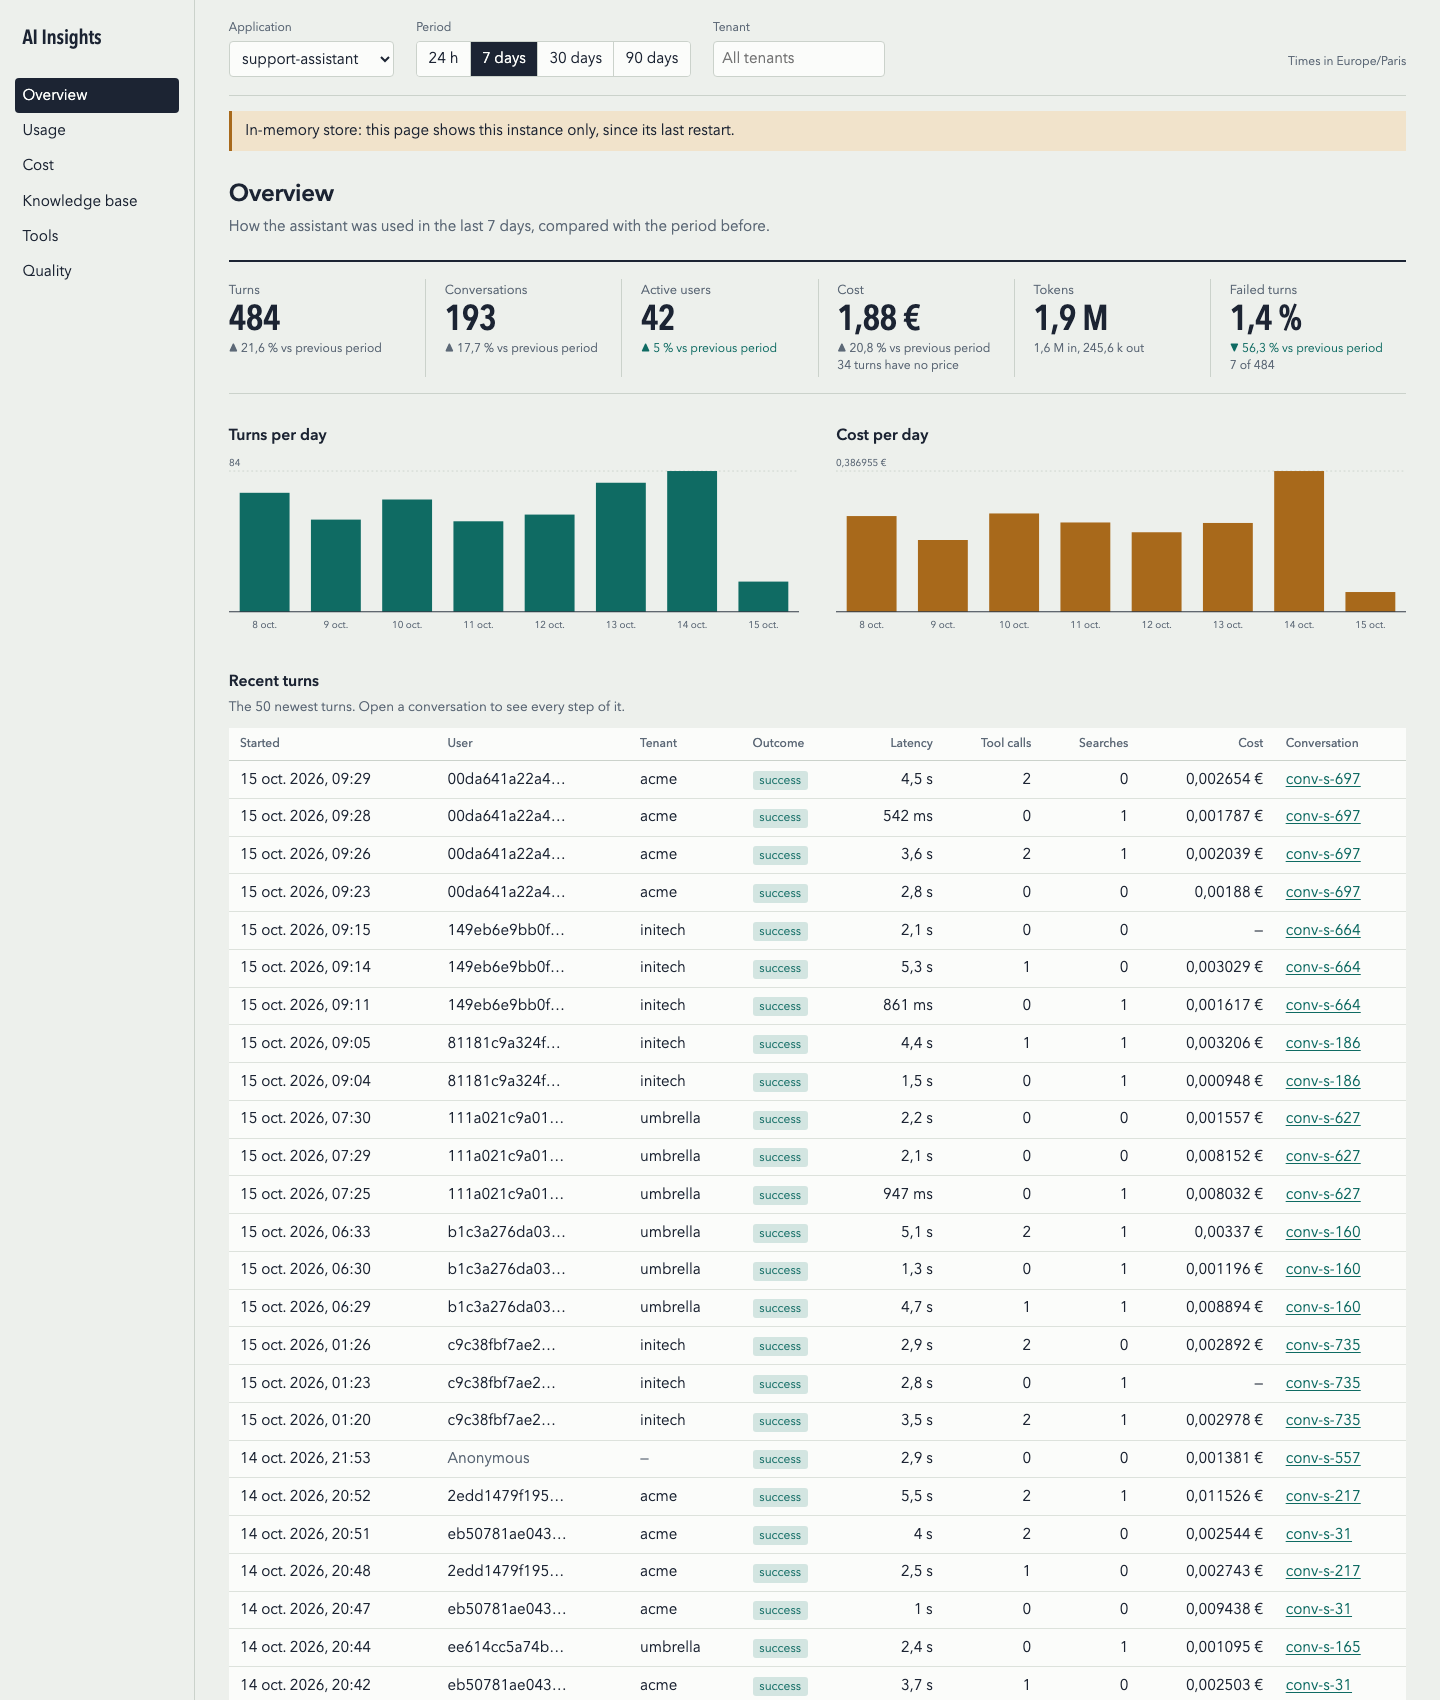
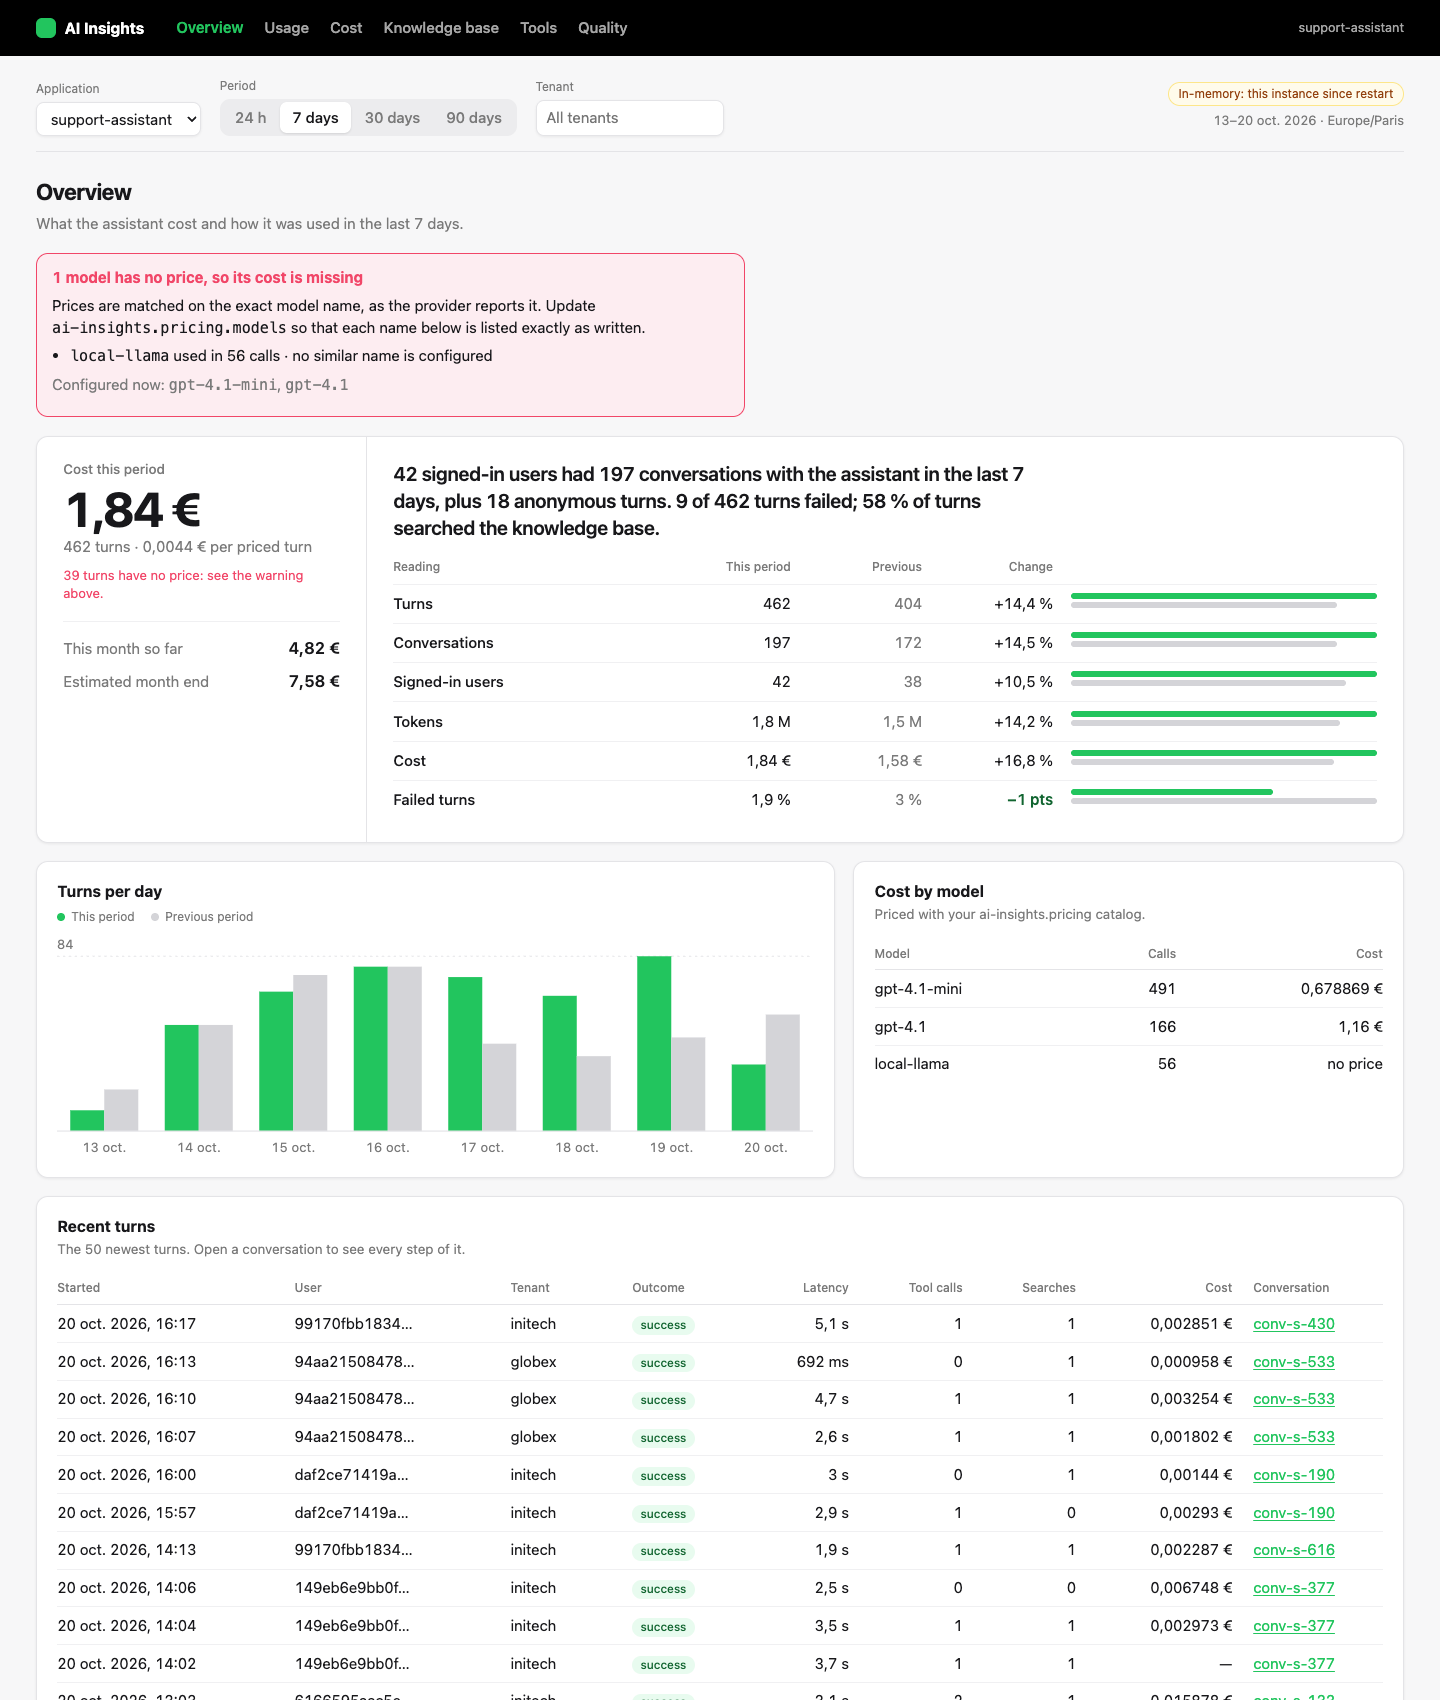
docs: refresh the screenshots, show the weekly report and the unpriced-model warning
The screenshots predated the current dashboard. Retaken in a browser from the
demo and the preview data. Add the weekly report (image and plain-text example),
the Cost page warning for a model without a price, and correct the demo's build
file name.

diff --git a/README.md b/README.md
@@ -93,6 +93,9 @@ warning at startup when it finds 2.0.0.
    be priced differently, so guessing would show a wrong cost. List every model ID you use, as reported. A
    model that is not listed is recorded without a cost, and the Overview and Cost pages show a warning naming
    it, the configured entry it resembles, and the entries that exist, so you can fix the YAML.
+   Here only `gpt-4o` is configured while the application calls `gpt-4o-mini`:
+
+   ![Cost page warning for a model without a price](docs/images/demo-unpriced-cost.png)
 
    Amazon Bedrock geographic inference profiles (`eu.`, `us.`, `apac.`, …) and `global.` profiles are
    priced differently — in `eu-west-1`, Claude Sonnet 4.6 is 3.30 / 16.50 per 1M input/output tokens
@@ -142,7 +145,7 @@ The other pages: [usage](docs/images/demo-usage.png), [cost](docs/images/demo-co
 [knowledge base](docs/images/demo-knowledge.png), [tools](docs/images/demo-tools.png),
 [quality](docs/images/demo-quality.png) and [one conversation](docs/images/demo-conversation.png).
 
-To run it against a real model, add a Spring AI model starter to `demo/build.gradle.kts` (for example
+To run it against a real model, add a Spring AI model starter to `demo/build.gradle` (for example
 `org.springframework.ai:spring-ai-starter-model-openai` with `spring.ai.openai.api-key`), delete
 `SimulatedChatModel.java`, and set `demo.traffic.enabled=false` unless you want to pay for the generated
 questions. Pricing for `gpt-4o` and `gpt-4o-mini` is already configured in `demo/src/main/resources/application.yml`.
@@ -442,11 +445,41 @@ ai-insights:
   `ReportLock` on it or declare a `ReportLock` bean.
 - The week is the seven calendar days before the run, in `zone`. Each application sends its own
   report, covering all tenants. A failing channel never stops the other one, nor the application.
-- **Never throws**: if building the report or sending it fails, it's logged and skipped — there's
-  no retry before next week's run. The week's claim is held for 35 days, so a late restart within
-  that window won't resend an already-sent week.
+- **Never throws**: if building the report or sending it fails, it's logged. When the report cannot be
+  built, or no channel delivers it, the week's claim is given back, so the next run retries; once one channel
+  has delivered it, the claim is held for 35 days, so a restart within that window won't resend it.
 - Read it any time, behind the dashboard's access check: `GET {path}/report` (HTML) and
   `GET {path}/api/report` (JSON); add `?app=` for another application.
+
+### What it looks like
+
+The email carries the same figures as a plain-text and an HTML part; Slack gets the text with its own markup.
+
+![Weekly report, as the HTML email or the /report page](docs/images/weekly-report.png)
+
+The Slack message and the plain-text part of the email read like this (generated from the sample data with
+`./gradlew :spring-ai-insights-web:previewReport`):
+
+```text
+AI assistant weekly report: support-assistant, 13 Oct – 19 Oct 2026
+Active users: 44 (+5% vs previous week)
+Conversations: 218 (+22%)
+Cost: EUR 2.24 (+42%), EUR 0.01 per conversation (+17%)
+Positive feedback: 81% (−2 pts)
+Knowledge base queries with no result: 10% (+2 pts)
+Top tools: searchOrders (201 calls), trackParcel (144 calls), refund (56 calls), updateAddress (32 calls), escalateToHuman (21 calls)
+Projected cost for October 2026: EUR 8.03 (EUR 4.92 so far)
+Cost excludes 48 turns with unpriced models.
+Prices match the exact model name the provider reports; update ai-insights.pricing.models to price these models:
+- local-llama (71 calls): no similar name is configured
+Configured now: gpt-4.1-mini, gpt-4.1
+Open the dashboard: https://app.example.com/ai-insights/
+```
+
+The last four lines only appear when a week has turns whose model has no price. Each such model is listed
+with its call count and, when a configured entry has a similar name, that entry
+(`- gpt-4o-mini (38 calls): configured gpt-4o is not the same name`), so you can see what to change in
+`ai-insights.pricing.models`.
 
 ## Feedback
 
